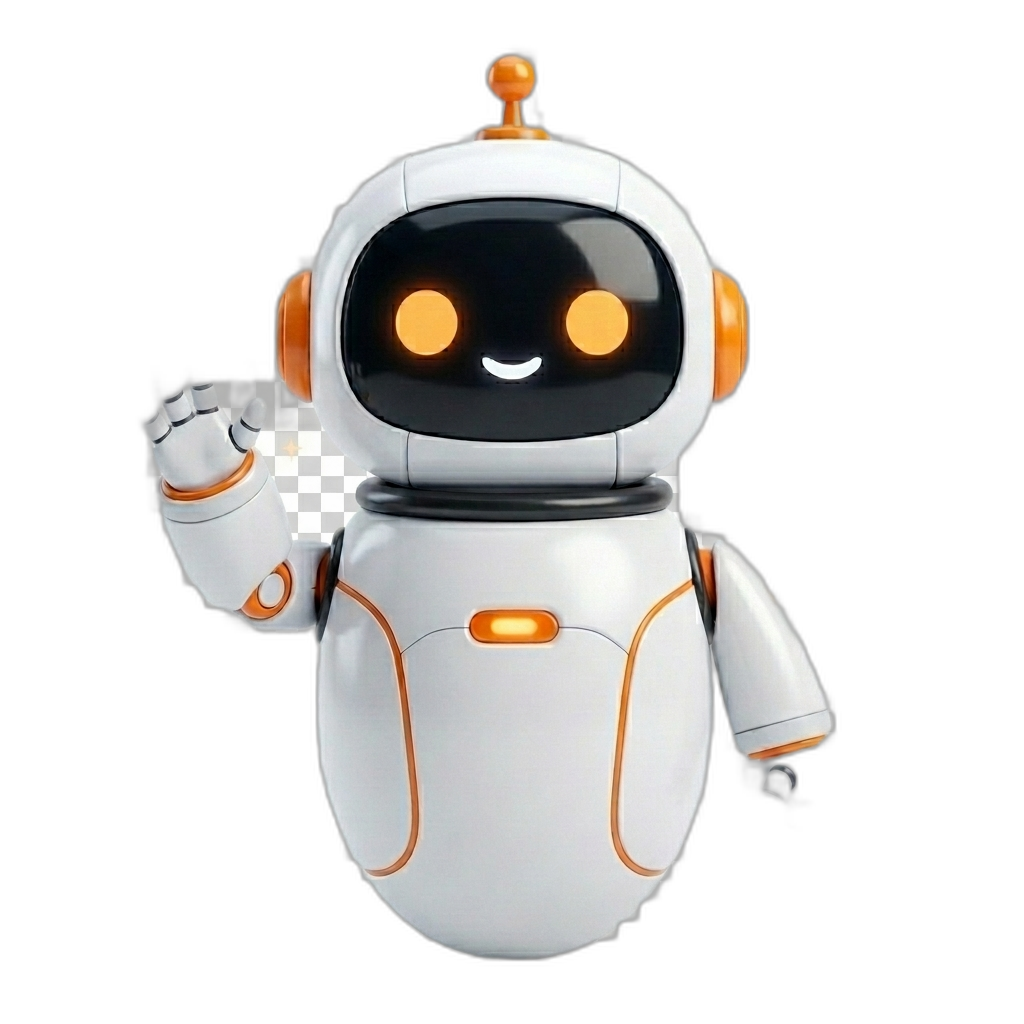
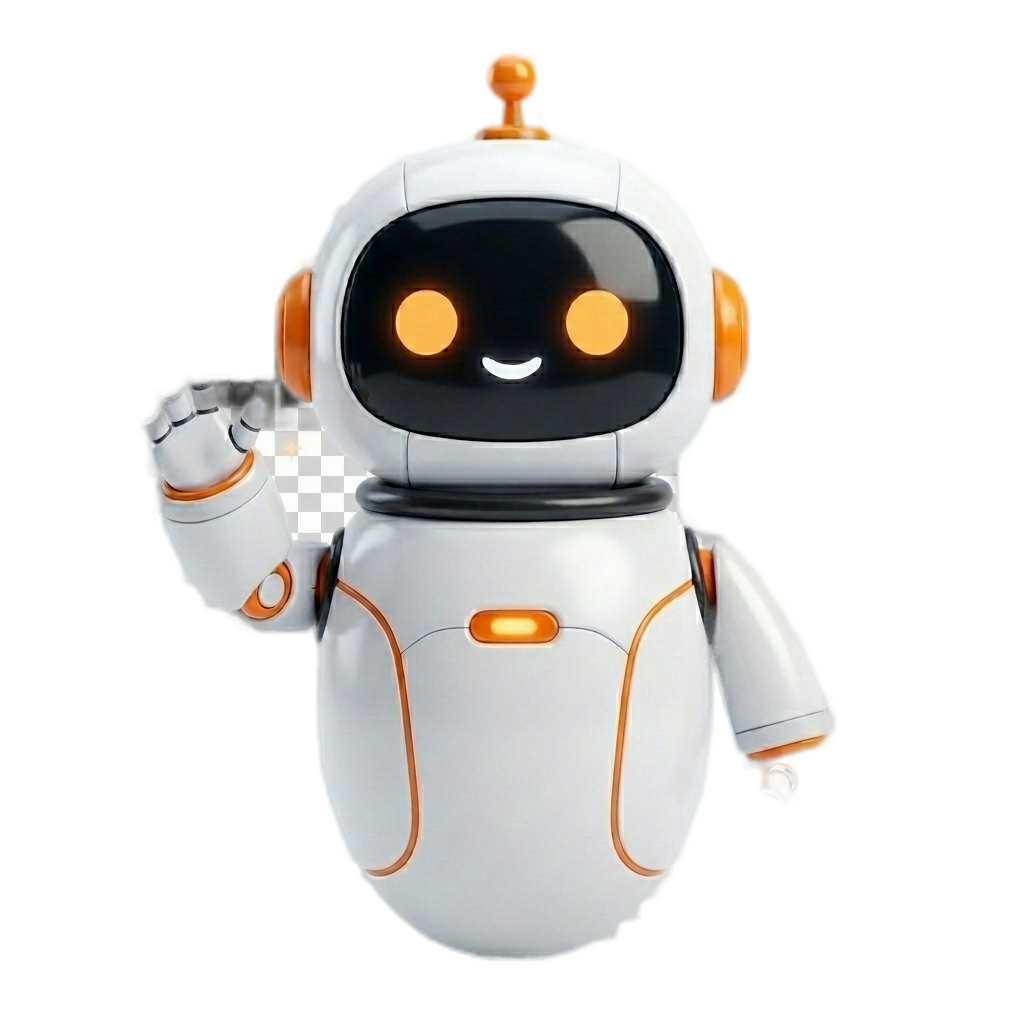
Fix: Improve robot mascot bg removal, overflow dashboard card, CTA robot sticks out above section

diff --git a/src/app/page.tsx b/src/app/page.tsx
@@ -292,7 +292,7 @@ export default function Home() {
           </div>
 
           {/* Right side - Dashboard card */}
-          <div className="relative">
+          <div className="relative overflow-visible">
             <div className="rounded-2xl bg-white border border-[#e8ebf3] shadow-[0_8px_40px_rgba(20,28,60,0.08)] overflow-visible relative">
               <div className="flex">
                 {/* Sidebar navigation */}
@@ -322,13 +322,13 @@ export default function Home() {
                 </div>
 
                 {/* Main dashboard content */}
-                <div className="flex-1 p-5 relative">
-                  {/* Robot mascot inside dashboard */}
-                  <div className="hidden md:block absolute -right-10 top-1/2 -translate-y-[40%] w-[110px] h-[110px] z-20 pointer-events-none">
+                <div className="flex-1 p-5 relative overflow-visible">
+                  {/* Robot mascot inside dashboard - overflows outside card */}
+                  <div className="hidden md:block absolute -right-16 -top-10 w-[160px] h-[160px] z-30 pointer-events-none">
                     <img
                       src="/assets/robot-mascot.png"
                       alt="AI Robot Assistant"
-                      className="w-full h-full object-contain drop-shadow-[0_6px_16px_rgba(0,0,0,0.12)]"
+                      className="w-full h-full object-contain drop-shadow-[0_8px_24px_rgba(0,0,0,0.15)]"
                     />
                   </div>
 
@@ -592,16 +592,18 @@ export default function Home() {
         </section>
 
         {/* CTA - Ready to Achieve */}
-        <section className="relative rounded-3xl overflow-hidden" style={{ background: "linear-gradient(105deg, #ff6b00 0%, #e85500 30%, #b25cff 60%, #4f84ff 100%)" }}>
-          {/* Decorative overlay */}
[1 lines of base64/hex data omitted]
+        <section className="relative rounded-3xl overflow-visible mt-8" style={{ background: "linear-gradient(105deg, #ff6b00 0%, #e85500 30%, #b25cff 60%, #4f84ff 100%)" }}>
+          {/* Inner section with overflow hidden for gradient only */}
+          <div className="absolute inset-0 rounded-3xl overflow-hidden">
[1 lines of base64/hex data omitted]
+          </div>
           <div className="relative z-10 flex flex-col items-center gap-6 p-8 md:p-0 md:flex-row md:items-end">
-            {/* Robot mascot */}
-            <div className="hidden md:block flex-shrink-0 w-[220px] h-[220px] relative -mb-1 ml-4">
+            {/* Robot mascot - sticks out above CTA section */}
+            <div className="hidden md:block flex-shrink-0 w-[280px] h-[280px] relative -mt-20 -mb-1 ml-6 z-20">
               <img
                 src="/assets/robot-mascot.png"
                 alt="AI Robot Mascot"
-                className="w-full h-full object-contain drop-shadow-[0_12px_32px_rgba(0,0,0,0.25)]"
+                className="w-full h-full object-contain drop-shadow-[0_16px_40px_rgba(0,0,0,0.3)]"
               />
             </div>
 